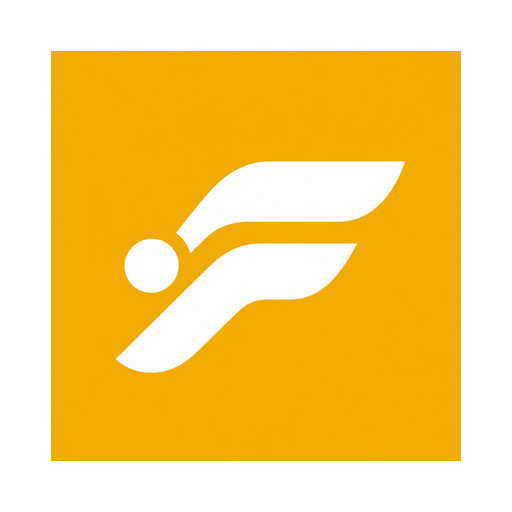
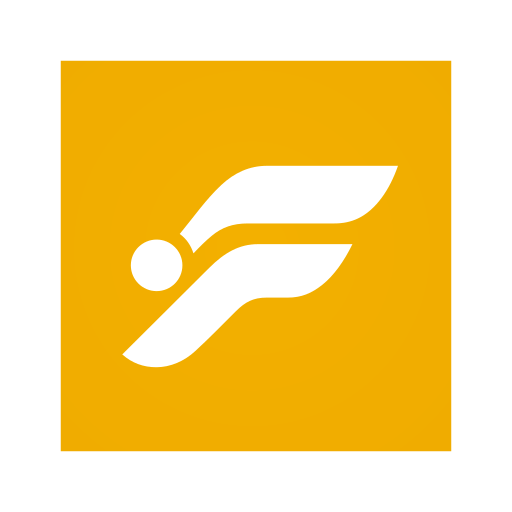
style: refresh branding and README

diff --git a/src/lib/components/support-page.svelte b/src/lib/components/support-page.svelte
@@ -97,7 +97,7 @@
                 class="bg-muted/60 w-[37.5%] px-5 py-5 text-base font-semibold"
                 ><span class="flex items-center gap-2"
                   ><img
-                    src="/logo-small.jpg"
+                    src="/logo-render/logo.svg"
                     alt=""
                     width="22"
                     height="22"

diff --git a/src/lib/components/content-shell.svelte b/src/lib/components/content-shell.svelte
@@ -38,7 +38,7 @@
         class="focus-visible:outline-ring flex shrink-0 items-center gap-2.5 rounded-sm text-lg font-semibold focus-visible:outline-2 focus-visible:outline-offset-4"
       >
         <img
-          src="/logo-small.jpg"
+          src="/logo-render/logo.svg"
           alt=""
           width="28"
           height="28"

diff --git a/src/lib/components/trainer/trainer-hud.svelte b/src/lib/components/trainer/trainer-hud.svelte
@@ -258,7 +258,7 @@
           aria-label={t(locale, `${siteMetadata.name} home`)}
         >
           <img
-            src="/logo-small.jpg"
+            src="/logo-render/logo.svg"
             alt=""
             width="24"
             height="24"

diff --git a/README.md b/README.md
@@ -1,120 +1,170 @@
-# FoveaFlow - Free Online Eye Trainer
+<p align="center">
+  <a href="https://foveaflow.com/">
+    <img src="public/logo-render/logo.svg" width="88" height="88" alt="FoveaFlow logo" />
+  </a>
+</p>
 
-[![FoveaFlow eye trainer with a yellow tracking target and floating controls against an orange background](docs/images/preview.jpg)](https://foveaflow.com/)
+<h1 align="center">FoveaFlow</h1>
 
-[![Astro](https://img.shields.io/badge/Astro-7-ff5d01?logo=astro&logoColor=white)](https://astro.build/) [![Svelte](https://img.shields.io/badge/Svelte-5-ff3e00?logo=svelte&logoColor=white)](https://svelte.dev/) [![TypeScript](https://img.shields.io/badge/TypeScript-6.0.3-3178c6?logo=typescript&logoColor=white)](https://www.typescriptlang.org/) [![Bun](https://img.shields.io/badge/Bun-ready-000000?logo=bun&logoColor=white)](https://bun.sh/) [![Tailwind CSS](https://img.shields.io/badge/Tailwind_CSS-4.3.2-38bdf8?logo=tailwindcss&logoColor=white)](https://tailwindcss.com/) [![License: MIT](https://img.shields.io/badge/License-MIT-green.svg)](LICENSE)
+<p align="center">
+  <strong>Eye training, right in your browser.</strong><br />
+  Follow a moving target, practice quick refocus, or hold your gaze through distractions.<br />
+  Set the pace yourself.
+</p>
 
-[FoveaFlow](https://foveaflow.com/) is a free online eye trainer for visual tracking, quick refocus, peripheral awareness, and FPS warmups. It includes Smooth Pursuit paths, Reaction Jumps, Lilac Chaser peripheral focus practice, random motion, and distractor tracking.
+<p align="center">
+  <a href="https://foveaflow.com/"><strong>Open FoveaFlow ↗</strong></a>
+  &nbsp; · &nbsp;
+  <a href="https://foveaflow.com/guide/">Guide</a>
+  &nbsp; · &nbsp;
+  <a href="#run-locally">Run locally</a>
+</p>
 
-It runs without an account or install. The app keeps the canvas full screen, gives direct control over target motion, and stores settings locally in your browser.
+<p align="center">
+  <sub>FREE TO USE &nbsp; / &nbsp; NO ACCOUNT &nbsp; / &nbsp; NO INSTALL</sub>
+</p>
 
-## What it does
+<p align="center">
+  <a href="https://foveaflow.com/">
+    <img src="docs/images/preview.jpg" width="100%" alt="FoveaFlow running in dark mode, with a yellow tracking target and floating controls, against an orange background" />
+  </a>
+</p>
 
-- Runs four drills: Smooth Pursuit, Reaction Jumps, Multiple Distractions, and Lilac Chaser.
-- Includes motion paths such as random, figure eight, bounce, sweeps, lissajous, and corner tour.
-- Supports speed controls in `deg/s`, `cm/s`, and `screen/s`.
-- Lets you tune target size, shape, color, opacity, trail behavior, distractor count, distractor brightness, and Lilac Chaser scale.
-- Includes calibration settings for viewing distance and CSS pixels per centimeter.
-- Stores settings locally in your browser.
-- Uses a canvas renderer with light and dark themes.
-- Keeps safety guardrails close to the engine, including saturated-red replacement and bounded frame timing.
+## Pick a drill
 
-## Background reading
+<table>
+  <tr>
+    <td width="50%" valign="top">
+      <sub>01 / TRACKING</sub>
+      <h3>Smooth Pursuit</h3>
+      <p>Follow one target along a moving path. Choose a steady sweep, a figure eight, or random motion.</p>
+    </td>
+    <td width="50%" valign="top">
+      <sub>02 / REFOCUS</sub>
+      <h3>Reaction Jumps</h3>
+      <p>Find the target each time it jumps to a new position. Adjust the pace as you go.</p>
+    </td>
+  </tr>
+  <tr>
+    <td width="50%" valign="top">
+      <sub>03 / DISTRACTIONS</sub>
+      <h3>Multiple Distractions</h3>
+      <p>Keep track of the brightest target among moving distractors. Control their number and brightness.</p>
+    </td>
+    <td width="50%" valign="top">
+      <sub>04 / PERIPHERAL AWARENESS</sub>
+      <h3>Lilac Chaser</h3>
+      <p>Hold your gaze on the center while noticing changes around it. Tune the ring's scale and color.</p>
+    </td>
+  </tr>
+</table>
 
-- [Visual guidance of smooth pursuit eye movements](https://pmc.ncbi.nlm.nih.gov/articles/PMC2887486/)
-- [Visual learning in multiple-object tracking](https://pmc.ncbi.nlm.nih.gov/articles/PMC2375111/)
-- [Lilac chaser illusion](https://en.wikipedia.org/wiki/Lilac_chaser)
-- [FPS Eye Training Warmup (HIGH FPS)](https://www.youtube.com/watch?v=WAPKAZhOFM4)
+## Make it comfortable
 
-## Tech stack
+Start with a large target and a slow speed. Use the floating controls to adjust both while the drill runs.
 
-- [Astro](https://astro.build/) for the app shell.
-- [Svelte 5](https://svelte.dev/) for the trainer UI.
-- [TypeScript](https://www.typescriptlang.org/) for application and engine code.
-- [Tailwind CSS 4](https://tailwindcss.com/) for styling.
-- [shadcn-svelte](https://www.shadcn-svelte.com/) and [bits-ui](https://bits-ui.com/) for UI primitives.
-- [Bun](https://bun.sh/) for dependency management and scripts.
+| Adjust | What you control |
+| :-- | :-- |
+| Motion | Random paths, sweeps, figure eight, bounce, Lissajous, corner tour, and more. |
+| Pace | Speed in `deg/s`, `cm/s`, or `screen/s`. |
+| Target | Size, shape, color, opacity, and trails. |
+| Calibration | Viewing distance and CSS pixels per centimeter. |
+| Appearance | Light and dark themes, distractor brightness, and Lilac Chaser scale. |
 
-## Quick start
+Your settings stay in your browser and carry over to your next visit.
 
-Requirements:
+> FoveaFlow is practice software, not medical care. Stop if you feel eye strain, dizziness, headache, nausea, or other discomfort. If you have an eye condition, light sensitivity, seizures, or recent eye surgery, ask a qualified clinician before using visual training tools.
 
-- Bun `1.4.1`
-- Node.js `>=22.12.0` (`.node-version` selects Node.js 24 LTS)
+## Run locally
 
-Install dependencies:
+Use **Bun 1.4.1** and **Node.js 24**, as selected by `.node-version`. The minimum supported Node.js version is `22.12.0`.
 
 ```bash
 bun install
-```
-
-Start the local dev server:
-
-```bash
 bun run dev
 ```
 
-Astro serves the app at:
+Open [127.0.0.1:4321](http://127.0.0.1:4321).
 
-```text
-http://127.0.0.1:4321
-```
+The app uses [Astro](https://astro.build/) for its shell, [Svelte 5](https://svelte.dev/) for the controls, and a TypeScript canvas engine for the drills. [Tailwind CSS 4](https://tailwindcss.com/), [shadcn-svelte](https://www.shadcn-svelte.com/), and [Bits UI](https://bits-ui.com/) handle the interface.
 
-## Scripts
+<details>
+<summary><strong>Development commands</strong></summary>
 
-| Command | What it does |
-| --- | --- |
-| `bun run dev` | Starts the Astro dev server on `127.0.0.1`. |
-| `bun run build` | Builds the production app. |
-| `bun run preview` | Serves the built app locally. |
-| `bun run check` | Runs `astro check`. |
-| `bun run lint` | Checks code and formatting with Ultracite. |
-| `bun run fix` | Applies Ultracite fixes and formats Astro files. |
-| `bun run test` | Builds production assets and runs the release browser tests. |
-| `bun run test:release` | Same release suite as `bun run test`. |
-| `bun run verify` | Runs every required pre-deploy quality check. |
-| `bun run prepush` | Runs the full verification before pushing. |
-| `bun run format` | Formats supported files with Oxfmt and Astro files with Prettier. |
+| Command | Purpose |
+| :-- | :-- |
+| `bun run dev` | Start the local Astro server. |
+| `bun run build` | Build the production app and generate CSP headers. |
+| `bun run preview` | Build and preview locally through Wrangler. |
+| `bun run check` | Check Astro, Svelte, and application types. |
+| `bun run check:tools` | Check tooling types. |
+| `bun run check:i18n` | Check translation coverage. |
+| `bun run lint` | Check code and formatting with Ultracite. |
+| `bun run fix` | Apply Ultracite fixes and format Astro files. |
+| `bun run format` | Format with Oxfmt and the Astro Prettier plugin. |
+| `bun run test` | Build and run the release browser tests. |
+| `bun run verify` | Run the full quality gate, including the dependency audit. |
 
-## Project structure
+`bun run test:release` runs the same suite as `bun run test`. `bun run prepush` runs the same checks as `bun run verify`.
 
-```text
-src/pages/                 Astro routes
-src/lib/components/        Svelte app and UI components
-src/lib/trainer/           Trainer UI state, rendering, and settings helpers
-src/lib/engine/            Training patterns, profiles, safety, storage
-src/styles/                Global styles and Tailwind setup
-public/metadata/           Generated icons and social images
-tests/release.playwright.ts Desktop and mobile release checks
-```
+</details>
 
-## Quality checks
+<details>
+<summary><strong>Checks and deployment</strong></summary>
 
-Install the test browser and enable the Git pre-push hook once per clone:
+Install the test browser and enable the pre-push hook once per clone:
 
 ```bash
 bunx playwright install chromium
 git config core.hooksPath .githooks
 ```
 
-Every push then runs `bun run prepush`: lint, formatting, types, Tailwind diagnostics, the production build, browser tests, and dependency audit. GitHub Actions runs the same verification before deploying.
+The hook runs lint, formatting, type checks, translation coverage, Tailwind diagnostics, the production build, browser tests, and a dependency audit.
 
-The release suite opens every trainer route and public page on desktop and mobile Chromium. It selects every mode and pattern through the menus, checks canvas animation, pause/resume, settings updates, persistence, and reset. Browser errors and failed site resources fail the run. Failure screenshots and traces are saved in `test-results/`.
+The release suite checks every trainer route and public page on desktop and mobile Chromium. It exercises drill and path selection, canvas animation, pause/resume, settings, persistence, and reset. Browser errors and failed site resources fail the run; failure screenshots and traces land in `test-results/`.
 
-Run `bun run test:release` for browser checks alone, or `bun run prepush` for the full gate. Set `TEST_PORT` if the default port `4323` is occupied.
+Set `TEST_PORT` if the default test port, `4323`, is occupied. GitHub Actions runs the full verification on pull requests and deploys to Cloudflare after successful verification on `main`.
 
-## Safety note
+</details>
 
-FoveaFlow is practice software, not medical care. Stop if you feel eye strain, dizziness, headache, nausea, or any other discomfort. If you have an eye condition, light sensitivity, seizures, or recent eye surgery, ask a qualified clinician before using visual training tools.
+<details>
+<summary><strong>Where things live</strong></summary>
 
-## Roadmap
+```text
+src/pages/                  Astro routes
+src/lib/components/         Svelte app and UI components
+src/lib/trainer/            Trainer state, rendering, and settings
+src/lib/engine/             Patterns, profiles, safety, and storage
+src/styles/                 Global styles and Tailwind setup
+public/logo-render/         SVG logo
+public/metadata/            App icons and social image
+tests/release.playwright.ts Desktop and mobile release checks
+```
 
-- Session history with basic progress stats.
+</details>
+
+<details>
+<summary><strong>Ideas for later</strong></summary>
+
+- Session history and basic progress stats.
 - Guided routines for warmups, tracking, reaction drills, and cooldowns.
-- Better calibration flow for screen size and viewing distance.
+- A clearer calibration flow for screen size and viewing distance.
 - Exportable presets.
-- Demo GIF and short usage clips.
+- Short demo clips.
 
-## License
+</details>
 
-MIT. See [LICENSE](LICENSE).
+## Background reading
+
+- [Visual guidance of smooth pursuit eye movements](https://pmc.ncbi.nlm.nih.gov/articles/PMC2887486/)
+- [Visual learning in multiple-object tracking](https://pmc.ncbi.nlm.nih.gov/articles/PMC2375111/)
+- [Lilac chaser illusion](https://en.wikipedia.org/wiki/Lilac_chaser)
+- [FPS Eye Training Warmup](https://www.youtube.com/watch?v=WAPKAZhOFM4)
+
+---
+
+<p align="center">
+  <a href="https://foveaflow.com/">foveaflow.com</a>
+  &nbsp; · &nbsp;
+  <a href="LICENSE">MIT license</a>
+</p>
